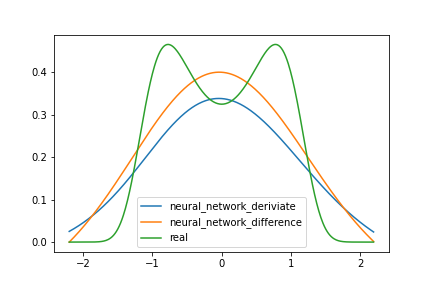
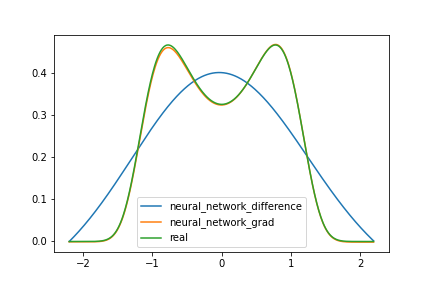
successfully implemented

diff --git a/fokker_planck/train.py b/fokker_planck/train.py
@@ -2,7 +2,7 @@ import torch
 from model import NeuralNet
 from data_prepare import PdeDataset, gen_train_data
 from torch.utils.data import DataLoader
-from utils import batch_get_difference, batch_get_deriviate
+from utils import batch_get_difference, grad_net
 from tqdm import tqdm
 import argparse
 import os
@@ -14,15 +14,15 @@ else:
     pass
 
 parser = argparse.ArgumentParser()
-parser.add_argument('--lr', type=float, default=0.003)
+parser.add_argument('--lr', type=float, default=3e-2)
 parser.add_argument('--batch_size', type=int, default=1)
-parser.add_argument('--num_epoch', type=int, default=2000)
+parser.add_argument('--num_epoch', type=int, default=10000)
 parser.add_argument('--hidden_size', type=int, default=20)
 parser.add_argument('--dt', type=float, default=0.01)
 parser.add_argument('--sigma', type=float, default=0.5)
 parser.add_argument('--a', type=float, default=0.3)
 parser.add_argument('--b', type=float, default=0.5)
-parser.add_argument('--phase', type=str, default='difference')
+parser.add_argument('--phase', type=str, default='grad')
 config = parser.parse_args()
 
 print(config)
@@ -46,20 +46,19 @@ optimizer = torch.optim.Adam(model.parameters(), lr=config.lr)
 def train(config):
     for epoch in tqdm(range(config.num_epoch)):
         for x, y in zip(train_loader_1, train_loader_2):
-            x = x.cuda()
-            y = y.cuda()
-            out1 = model(x)
-            out2 = model(y)
+            var_x = x.cuda().requires_grad_()
+            var_y = y.cuda().requires_grad_()
+            out1 = model(var_x)
+            out2 = model(var_y)
+            f_value = f_func(var_x)
 
-            f_value = f_func(x)
-
-            if config.phase == 'deriviate':
-                f_deriviate_value = d_f_func(x)
-                e1 = ((-(f_value * batch_get_deriviate(model, x) + f_deriviate_value * out1) +
-                       ((config.sigma**2) / 2) * batch_get_deriviate(model, x, order=2))**2).mean()
-            elif config.phase == 'difference':
+            if config.phase == 'difference':
                 e1 = ((-batch_get_difference(f_value * out1, config.dt) +
-                      ((config.sigma **2)/2) * batch_get_difference(out1, config.dt, order=2))**2).mean()
+                      ((config.sigma ** 2)/2) * batch_get_difference(out1, config.dt, order=2))**2).mean()
+            elif config.phase == 'grad':
+                f_deriviate_value = d_f_func(var_x)
+                e1 = ((-(f_value * grad_net(out1, var_x) + f_deriviate_value * out1) +
+                      ((config.sigma**2) / 2) * grad_net(out1, var_x, order=2))**2).mean()
             else:
                 raise NotImplementedError
 

diff --git a/fokker_planck/utils.py b/fokker_planck/utils.py
@@ -1,6 +1,7 @@
 import torch
+from torch.autograd import grad
 
-
+'''
 def net_deriviate(net, x, order=1):
     x_ = x.clone().detach().view(-1)
     param = list(net.parameters())
@@ -20,6 +21,23 @@ def net_deriviate(net, x, order=1):
 
 def batch_get_deriviate(net, batch_x, order=1):
     return torch.stack([net_deriviate(net, x, order) for x in batch_x])
+'''
+
+def grad_net(y, x, order=1):
+    weights = torch.ones_like(y)
+    if order == 1:
+        g = grad(outputs=y, inputs=x, grad_outputs=weights, create_graph=True)[0]
+        return g
+    elif order == 2:
+        g_1 = grad(outputs=y, inputs=x, grad_outputs=weights, create_graph=True)[0]
+        g_2 = grad(outputs=g_1, inputs=x, grad_outputs=weights, create_graph=True)[0]
+        return g_2
+    else:
+        raise NotImplementedError
+
+
+def batch_grad_net(batch_y, batch_x, order=1):
+    return torch.stack([grad_net(y, x, order) for y, x in zip(batch_y, batch_x)])
 
 
 def get_difference(x, dt, order=1):
@@ -35,5 +53,3 @@ def get_difference(x, dt, order=1):
 def batch_get_difference(batch_x, dt, order=1):
     r = batch_x.size()[0]
     return torch.stack([get_difference(batch_x[i], dt, order) for i in range(r)]).unsqueeze(2)
-
-

diff --git a/fokker_planck/model.py b/fokker_planck/model.py
@@ -7,6 +7,8 @@ class NeuralNet(nn.Module):
         self.layer = nn.Sequential(
             nn.Linear(input_size, hidden_size),
             nn.Sigmoid(),
+            nn.Linear(hidden_size, hidden_size),
+            nn.Sigmoid(),
             nn.Linear(hidden_size, output_size)
         )
 

diff --git a/README.md b/README.md
@@ -6,12 +6,18 @@ It will be different from the original paper due some implement detail(I use two
 implement how to get deriviate of neural network).
 
 ## Run the code
-``python train.py --phase='difference'``
+`python train.py --phase='grad'`
 
-``python train.py --phase='deriviate'``
+Default phase is 'grad', where other phases like 'difference' can be chosen.
+
+use the following code:
+
+`python train.py --phase='difference'`
 
 ## Result
 
+After 30000 iterations training, loss will drop to about $10^{-7}$.
 
 
-![res](/home/caliber/Desktop/PDEs_by_DL/fokker_planck/pic_save/res.png)
+
+![res](fokker_planck/pic_save/res.png)
